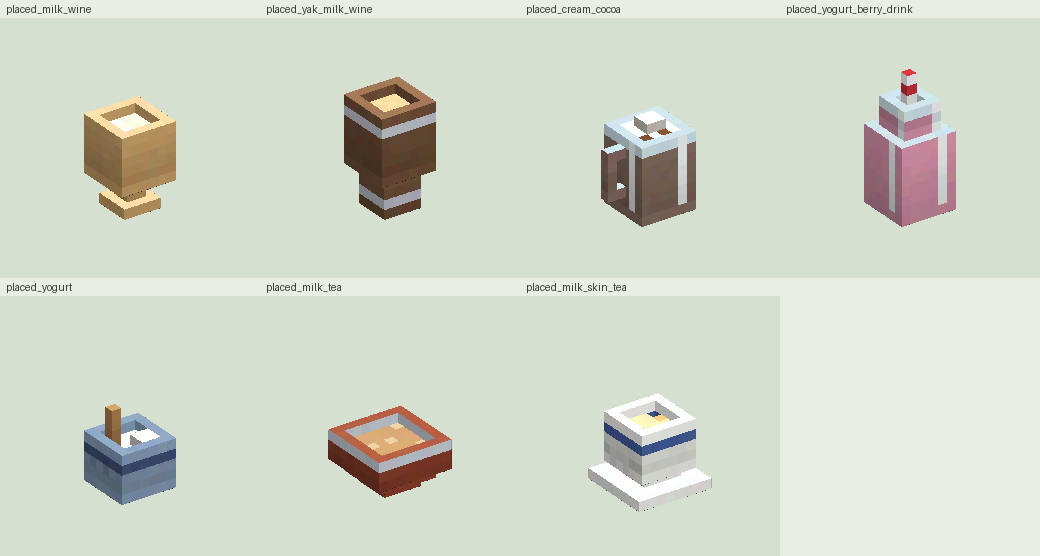
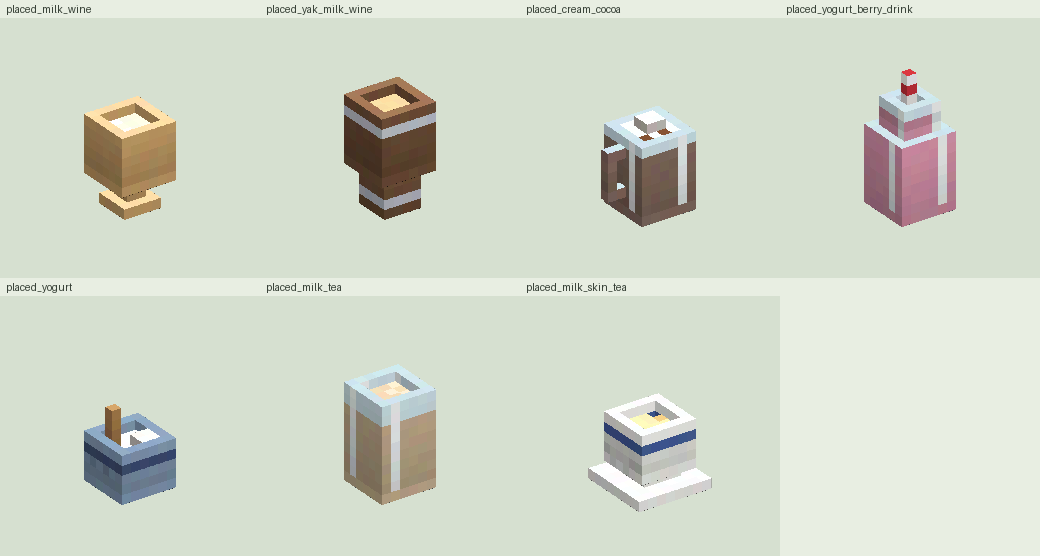
Milk tea is set down as a glass, not a bowl
The player pointed out milk tea is a cup, not a bowl (the item is bottled, and gives the bottle
back). The placed milk tea is now a tall straight glass, tea-tinted below a pale band of milk
foam; its box is `tumbler` (6 x 10 x 6). Milk-skin tea keeps its porcelain bowl.

Changed region(s): [[0.3077, 0.6421, 0.4615, 0.9173]]

diff --git a/packs/BP/scripts/data/placedFoods.js b/packs/BP/scripts/data/placedFoods.js
@@ -12,7 +12,7 @@
 // gives:    handed back with the last portion (the dish's bowl)
 // drink:    drunk rather than eaten (the item's drink animation): the drinking sound
 // shape:    which boxes the block uses (tools/gen_blocks.mjs PLACED_SHAPES): wheel, pizza, pot, fondue,
-//           claypot, dish, and the drinks' goblet, beaker, crock, mug, bottle, tea_bowl, saucer_bowl;
+//           claypot, dish, and the drinks' goblet, beaker, crock, mug, bottle, tumbler, saucer_bowl;
 //           every dish and drink has its own model
 //           (tools/gen_blocks.mjs; art_src/m4_scripts/placed_food.py)
 //
@@ -51,7 +51,7 @@ export const PLACED_FOODS = [
   drink("yak_milk_wine", "beaker", 4, { gives: "kaleidoscope_ranching:horn_cup" }),
   drink("cream_cocoa", "mug", 4, { gives: "minecraft:glass_bottle" }),
   drink("yogurt_berry_drink", "bottle", 4, { gives: "minecraft:glass_bottle" }),
-  drink("milk_tea", "tea_bowl", 4, { gives: "minecraft:glass_bottle" }),
+  drink("milk_tea", "tumbler", 4, { gives: "minecraft:glass_bottle" }),
   drink("milk_skin_tea", "saucer_bowl", 5, { gives: "minecraft:glass_bottle" }),
   // Yogurt is eaten with a spoon from its crock, as from the hand.
   drink("yogurt", "crock", 4, { drink: false }),

diff --git a/art_src/m4_scripts/placed_drink.py b/art_src/m4_scripts/placed_drink.py
@@ -1,7 +1,7 @@
 """Drinks that can be put down and drunk in place (data/placedFoods.js rows with one portion):
 the two milk wines in horn cups, the cream cocoa in a glass mug, the yogurt berry drink in a
-milk bottle with a straw, yogurt in its crock with a spoon, milk tea in a lacquered wooden bowl
-and milk-skin tea in a porcelain bowl on its saucer.
+milk bottle with a straw, yogurt in its crock with a spoon, milk tea in a tall glass and milk-skin tea in a porcelain
+bowl on its saucer.
 
 Each is a container bone and a piece_1 bone with the drink, whose top shows inside the rim
 (tools/validate.mjs wants piece_1 for every placed food). The drink is drunk in one go, so the
@@ -175,21 +175,21 @@ def yogurt():
     m.save()
 
 
-# --- milk teas: two tea bowls ------------------------------------------------------------
+# --- milk teas: a glass of milk tea and a bowl of milk-skin tea --------------------------
 
 TEA, TEA_DK = (200, 158, 108), (176, 132, 86)
 
 
 def milk_tea():
-    """A wide wooden tea bowl lacquered red-brown, lined with a silver rim, full of milk tea."""
+    """A tall straight glass of milk tea, a pale band of milk foam on top; no handle, no straw."""
     m = Model("placed_milk_tea")
-    wood = horn((140, 64, 44), (98, 42, 30), (168, 88, 62), band=(SILVER, SILVER_DK), band_at=(4,))
+    g = glass(TEA, 8, streak=1)
     m.bone("cup")
-    m.box("cup", [-2, 0, -2], [4, 1, 4], wood)  # foot
-    m.box("cup", [-3, 1, -3], [6, 1, 6], wood)
-    ring(m, "cup", -4, 4, -4, 4, 2, 5, wood)
+    m.box("cup", [-3, 0, -3], [6, 1, 6], g)
+    ring(m, "cup", -3, 3, -3, 3, 1, 10, g)
     m.bone("piece_1", "cup")
-    m.box("piece_1", [-3, 2, -3], [6, 2, 6], surface(TEA, mix(TEA, (250, 240, 220), 0.4), 8, 12))
+    m.box("piece_1", [-2, 1, -2], [4, 7, 4], plain(TEA, TEA_DK))
+    m.box("piece_1", [-2, 8, -2], [4, 1, 4], surface(mix(TEA, (250, 240, 220), 0.55), mix(TEA, (250, 240, 220), 0.8), 8, 24))
     m.save()
 
 
